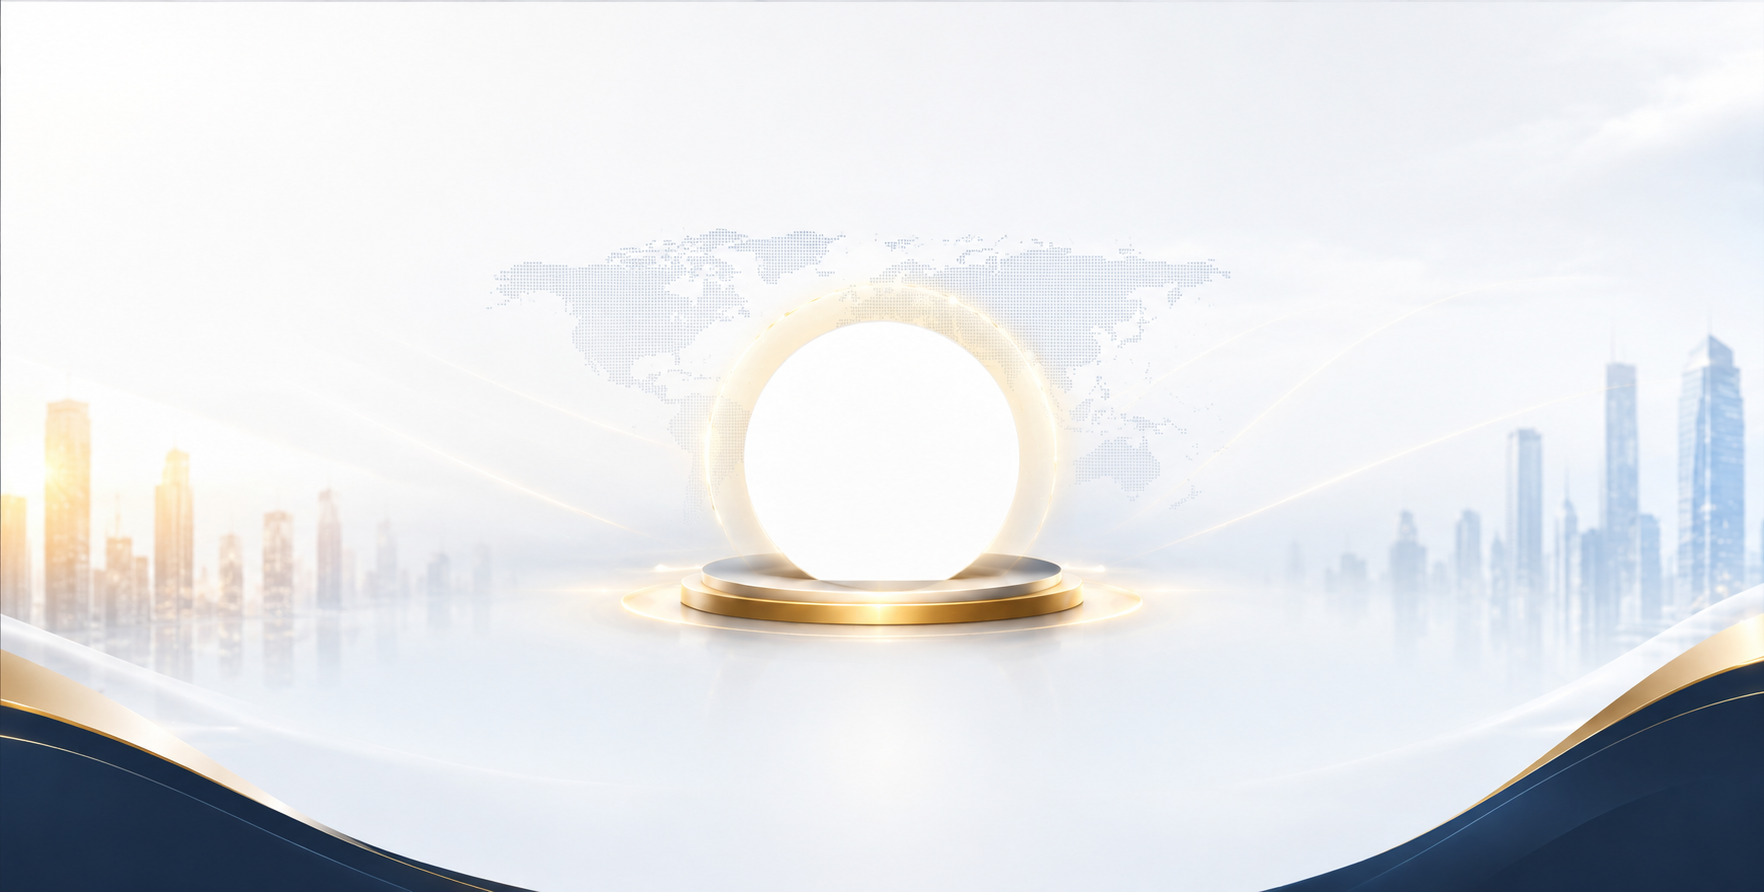
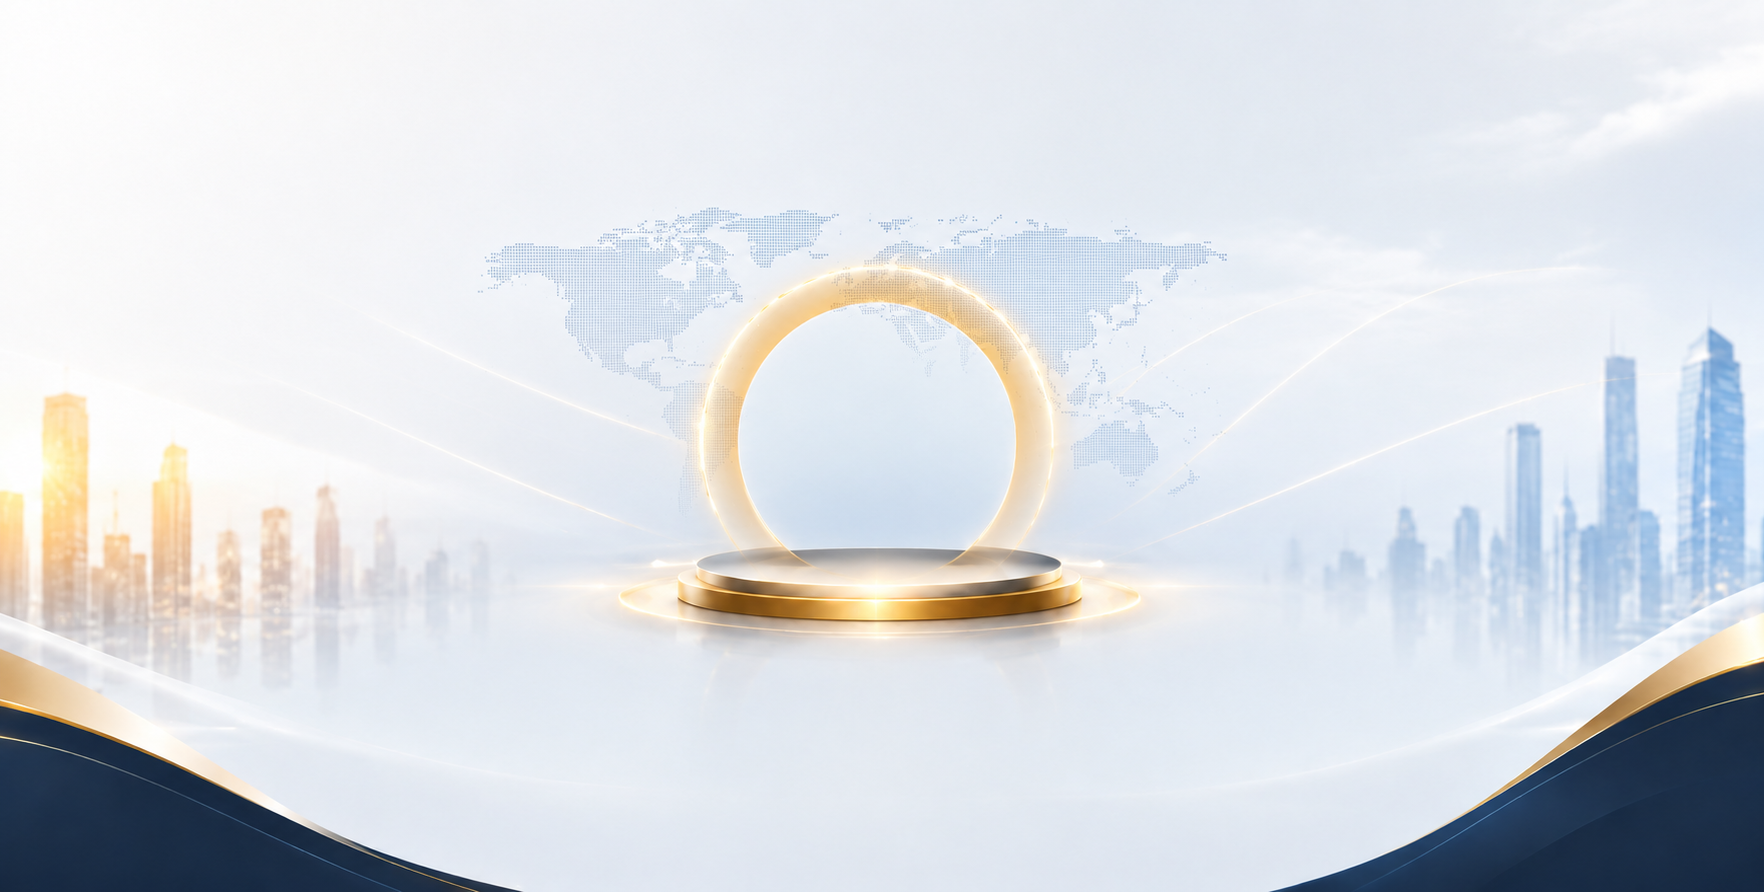
some

diff --git a/style.css b/style.css
@@ -597,7 +597,8 @@ body.nav-open {
   align-items: center;
   padding-top: clamp(80px, 10vw, 120px);
   padding-bottom: clamp(40px, 5vw, 80px);
-  overflow-x: hidden;  /* only hide horizontal — never clip cards vertically */
+  overflow-x: hidden;
+  /* only hide horizontal — never clip cards vertically */
   background-image: url('assets/Hero_Banner.png');
   background-size: cover;
   background-position: center;
@@ -825,9 +826,17 @@ body.nav-open {
 }
 
 @keyframes float {
-  0% { transform: translateY(0px); }
-  50% { transform: translateY(-15px); }
-  100% { transform: translateY(0px); }
+  0% {
+    transform: translateY(0px);
+  }
+
+  50% {
+    transform: translateY(-15px);
+  }
+
+  100% {
+    transform: translateY(0px);
+  }
 }
 
 /* =====================
@@ -917,17 +926,59 @@ body.nav-open {
     font-size: 11px;
   }
 
-  .fc-1, .fc-2, .fc-3, .fc-4, .fc-5, .fc-6 {
+  .fc-1,
+  .fc-2,
+  .fc-3,
+  .fc-4,
+  .fc-5,
+  .fc-6 {
     display: flex;
   }
 
   /* Compact orbit ring for tablet */
-  .fc-1 { top: 0;     left: calc(50% - 65px); bottom: auto; right: auto; transform: none; }
-  .fc-2 { top: 110px; right: 5%; left: auto; bottom: auto; }
-  .fc-3 { top: 110px; left: 5%; right: auto; bottom: auto; }
-  .fc-4 { top: 310px; right: 5%; left: auto; bottom: auto; }
-  .fc-5 { top: 310px; left: 5%; right: auto; bottom: auto; }
-  .fc-6 { top: 420px; left: calc(50% - 65px); bottom: auto; right: auto; transform: none; }
+  .fc-1 {
+    top: 0;
+    left: calc(50% - 65px);
+    bottom: auto;
+    right: auto;
+    transform: none;
+  }
+
+  .fc-2 {
+    top: 110px;
+    right: 5%;
+    left: auto;
+    bottom: auto;
+  }
+
+  .fc-3 {
+    top: 110px;
+    left: 5%;
+    right: auto;
+    bottom: auto;
+  }
+
+  .fc-4 {
+    top: 310px;
+    right: 5%;
+    left: auto;
+    bottom: auto;
+  }
+
+  .fc-5 {
+    top: 310px;
+    left: 5%;
+    right: auto;
+    bottom: auto;
+  }
+
+  .fc-6 {
+    top: 420px;
+    left: calc(50% - 65px);
+    bottom: auto;
+    right: auto;
+    transform: none;
+  }
 }
 
 /* Mobile 768px */
@@ -992,12 +1043,49 @@ body.nav-open {
     font-size: 10.5px;
   }
 
-  .fc-1 { top: 0;     left: calc(50% - 61px); bottom: auto; right: auto; transform: none; }
-  .fc-2 { top: 100px; right: 3%; left: auto; bottom: auto; }
-  .fc-3 { top: 100px; left: 3%; right: auto; bottom: auto; }
-  .fc-4 { top: 285px; right: 3%; left: auto; bottom: auto; }
-  .fc-5 { top: 285px; left: 3%; right: auto; bottom: auto; }
-  .fc-6 { top: 385px; left: calc(50% - 61px); bottom: auto; right: auto; transform: none; }
+  .fc-1 {
+    top: 0;
+    left: calc(50% - 61px);
+    bottom: auto;
+    right: auto;
+    transform: none;
+  }
+
+  .fc-2 {
+    top: 100px;
+    right: 3%;
+    left: auto;
+    bottom: auto;
+  }
+
+  .fc-3 {
+    top: 100px;
+    left: 3%;
+    right: auto;
+    bottom: auto;
+  }
+
+  .fc-4 {
+    top: 285px;
+    right: 3%;
+    left: auto;
+    bottom: auto;
+  }
+
+  .fc-5 {
+    top: 285px;
+    left: 3%;
+    right: auto;
+    bottom: auto;
+  }
+
+  .fc-6 {
+    top: 385px;
+    left: calc(50% - 61px);
+    bottom: auto;
+    right: auto;
+    transform: none;
+  }
 }
 
 /* Small mobile 480px — 1:1 match to reference image */
@@ -1054,12 +1142,47 @@ body.nav-open {
   }
 
   /* Compact 6-card ring around center logo */
-  .fc-1 { top: 0;     left: calc(50% - 59px); bottom: auto; right: auto; }
-  .fc-2 { top: 95px;  right: 2px; left: auto; bottom: auto; }
-  .fc-3 { top: 95px;  left: 2px; right: auto; bottom: auto; }
-  .fc-4 { top: 270px; right: 2px; left: auto; bottom: auto; }
-  .fc-5 { top: 270px; left: 2px; right: auto; bottom: auto; }
-  .fc-6 { top: 365px; left: calc(50% - 59px); bottom: auto; right: auto; }
+  .fc-1 {
+    top: 0;
+    left: calc(50% - 59px);
+    bottom: auto;
+    right: auto;
+  }
+
+  .fc-2 {
+    top: 95px;
+    right: 2px;
+    left: auto;
+    bottom: auto;
+  }
+
+  .fc-3 {
+    top: 95px;
+    left: 2px;
+    right: auto;
+    bottom: auto;
+  }
+
+  .fc-4 {
+    top: 270px;
+    right: 2px;
+    left: auto;
+    bottom: auto;
+  }
+
+  .fc-5 {
+    top: 270px;
+    left: 2px;
+    right: auto;
+    bottom: auto;
+  }
+
+  .fc-6 {
+    top: 365px;
+    left: calc(50% - 59px);
+    bottom: auto;
+    right: auto;
+  }
 
   .hero-actions {
     flex-direction: column;
@@ -1114,12 +1237,47 @@ body.nav-open {
     font-size: 9.5px;
   }
 
-  .fc-1 { top: 0;     left: calc(50% - 54px); bottom: auto; right: auto; }
-  .fc-2 { top: 88px;  right: 0; left: auto; bottom: auto; }
-  .fc-3 { top: 88px;  left: 0; right: auto; bottom: auto; }
-  .fc-4 { top: 250px; right: 0; left: auto; bottom: auto; }
-  .fc-5 { top: 250px; left: 0; right: auto; bottom: auto; }
-  .fc-6 { top: 338px; left: calc(50% - 54px); bottom: auto; right: auto; }
+  .fc-1 {
+    top: 0;
+    left: calc(50% - 54px);
+    bottom: auto;
+    right: auto;
+  }
+
+  .fc-2 {
+    top: 88px;
+    right: 0;
+    left: auto;
+    bottom: auto;
+  }
+
+  .fc-3 {
+    top: 88px;
+    left: 0;
+    right: auto;
+    bottom: auto;
+  }
+
+  .fc-4 {
+    top: 250px;
+    right: 0;
+    left: auto;
+    bottom: auto;
+  }
+
+  .fc-5 {
+    top: 250px;
+    left: 0;
+    right: auto;
+    bottom: auto;
+  }
+
+  .fc-6 {
+    top: 338px;
+    left: calc(50% - 54px);
+    bottom: auto;
+    right: auto;
+  }
 }
 
 
@@ -1527,11 +1685,12 @@ body.nav-open {
   justify-content: center;
   z-index: 2;
   margin-top: -10px;
+  box-shadow: 0 0 35px rgba(255, 255, 255, 0.15);
 }
 
 .vm-center-emblem img {
   width: 240px;
-  margin-bottom: 0;
+  margin-bottom: 130px;
 }
 
 .vm-center-emblem span {
@@ -1566,7 +1725,8 @@ body.nav-open {
 
   /* Show emblem between cards on tablet */
   .vm-center-emblem {
-    order: -1; /* show logo above both cards */
+    order: -1;
+    /* show logo above both cards */
     width: 160px;
     height: 160px;
     margin: 0;
@@ -1599,7 +1759,8 @@ body.nav-open {
   }
 
   .vm-center-emblem {
-    display: none; /* hide on mobile to save space */
+    display: none;
+    /* hide on mobile to save space */
   }
 }
 
@@ -1774,6 +1935,7 @@ body.nav-open {
 }
 
 @media (max-width: 991px) {
+
   .service-item-new,
   .service-item-new.reverse {
     flex-direction: column;
@@ -1797,6 +1959,7 @@ body.nav-open {
 }
 
 @media (max-width: 576px) {
+
   .service-item-new,
   .service-item-new.reverse {
     gap: 20px;
@@ -3167,6 +3330,7 @@ body.nav-open {
    ===================== */
 
 @media (max-width: 768px) {
+
   /* Services, Industries, Why Us, Core Values inline-style headings */
   .section h2[style],
   .container h2[style],

diff --git a/index.html b/index.html
@@ -54,7 +54,8 @@
             <div class="mobile-nav-footer">
                 <a href="#contact" class="mobile-nav-cta">
                     Let's Connect
-                    <span class="btn-icon-gold" style="width:36px;height:36px;font-size:16px;"><i class="ph ph-arrow-right"></i></span>
+                    <span class="btn-icon-gold" style="width:36px;height:36px;font-size:16px;"><i
+                            class="ph ph-arrow-right"></i></span>
                 </a>
                 <p class="mobile-nav-tagline">"Giving wings to your dreams"</p>
             </div>
@@ -323,8 +324,7 @@
                         <a href="#contact" class="s-link">Learn More <i class="ph ph-arrow-right"></i></a>
                     </div>
                     <div class="service-image-box">
-                        <img src="https://images.unsplash.com/photo-1504328345606-18bbc8c9d7d1?auto=format&fit=crop&q=80&w=800"
-                            alt="Field & On-ground Support">
+                        <img src="/assets/onground.png" alt="Field & On-ground Support">
                     </div>
                 </div>
 
@@ -345,8 +345,7 @@
                         <a href="#contact" class="s-link">Learn More <i class="ph ph-arrow-right"></i></a>
                     </div>
                     <div class="service-image-box">
-                        <img src="https://images.unsplash.com/photo-1540575467063-178a50c2df87?auto=format&fit=crop&q=80&w=800"
-                            alt="Event Management Services">
+                        <img src="/assets/Event_Management.jpeg" alt="Event Management Services">
                     </div>
                 </div>
 
@@ -749,14 +748,18 @@
                             <div class="contact-item">
                                 <i class="ph ph-buildings"></i>
                                 <div>
-                                    <span style="font-size: 0.8rem; text-transform: uppercase; letter-spacing: 1px; color: var(--color-primary-gold); font-weight: 600; display: block; margin-bottom: 2px;">Corporate Ofc</span>
+                                    <span
+                                        style="font-size: 0.8rem; text-transform: uppercase; letter-spacing: 1px; color: var(--color-primary-gold); font-weight: 600; display: block; margin-bottom: 2px;">Corporate
+                                        Ofc</span>
                                     <p>Noida, UP — 201301</p>
                                 </div>
                             </div>
                             <div class="contact-item">
                                 <i class="ph ph-map-pin"></i>
                                 <div>
-                                    <span style="font-size: 0.8rem; text-transform: uppercase; letter-spacing: 1px; color: var(--color-primary-gold); font-weight: 600; display: block; margin-bottom: 2px;">Registered Office</span>
+                                    <span
+                                        style="font-size: 0.8rem; text-transform: uppercase; letter-spacing: 1px; color: var(--color-primary-gold); font-weight: 600; display: block; margin-bottom: 2px;">Registered
+                                        Office</span>
                                     <p>N22-2007, 20th Floor, Tower 22,<br>Sector 151, Noida, UP — 201301</p>
                                 </div>
                             </div>
@@ -938,7 +941,8 @@
                             <i class="ph ph-map-pin"></i>
                             <div class="info-text">
                                 <span class="info-label">Registered Office:</span>
-                                <span class="info-value">N22-2007, 20th Floor, Tower 22, Sector 151, Noida, UP — 201301</span>
+                                <span class="info-value">N22-2007, 20th Floor, Tower 22, Sector 151, Noida, UP —
+                                    201301</span>
                             </div>
                         </div>
                     </div>
